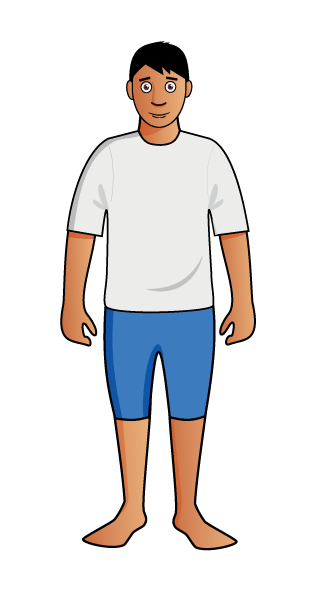
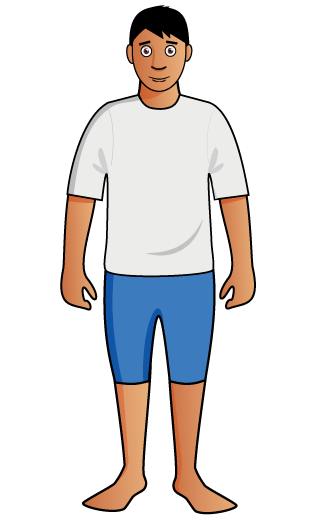
acessorios que n fazem sentido

diff --git a/index.html b/index.html
@@ -32,30 +32,160 @@
                         <div class="col-lg-8 mt-3">
                             <div class="row justify-content-center">
                                 <div class="col-lg-4">
-                                    <div class="janela-g janela-camisa"></div>
+                                    <div class="galeria-homem" style="padding-left: 15px;position: absolute;">
+                                        <img id='camisa-box' src="tela2/janela-camisa.png" alt="">
+                                        <img class="camisa" src="tela2/galerias/homem/camisa/camisa-astronauta.png" alt="">
+                                        <img class="camisa" src="tela2/galerias/homem/camisa/camisa-bombeiro.png" alt="">
+                                        <img class="camisa" src="tela2/galerias/homem/camisa/camisa-gario.png" alt="">
+                                        <img class="camisa" src="tela2/galerias/homem/camisa/camisa-mergulhador.png" alt="">
+                                        <img class="camisa" src="tela2/galerias/homem/camisa/camisa-cozinheiro.png" alt="">
+                                        <img class="camisa" src="tela2/galerias/homem/camisa/camisa-jardineiro.png" alt="">
+                                        <img class="camisa" src="tela2/galerias/homem/camisa/camisa-pescador.png" alt="">
+                                        <img class="camisa" src="tela2/galerias/homem/camisa/camisa-professor.png" alt="">
+                                        <img class="camisa" src="tela2/galerias/homem/camisa/camisa-violeiro.png" alt="">
+                                    </div>
+                                    <div class="galeria-mulher d-none" style="padding-left: 15px;">
+                                        <img id='camisa-box' src="tela2/janela-camisa.png" alt="">
+                                        <img class="camisa" src="tela2/galerias/mulher/camisas/camisa-astronauta.png" alt="">
+                                        <img class="camisa" src="tela2/galerias/mulher/camisas/camisa-bombeira.png" alt="">
+                                        <img class="camisa" src="tela2/galerias/mulher/camisas/camisa-gari.png" alt="">
+                                        <img class="camisa" src="tela2/galerias/mulher/camisas/camisa-jardineira.png" alt="">
+                                        <img class="camisa" src="tela2/galerias/mulher/camisas/camisa-medica.png" alt="">
+                                        <img class="camisa" src="tela2/galerias/mulher/camisas/camisa-mergulhadora.png" alt="">
+                                        <img class="camisa" src="tela2/galerias/mulher/camisas/camisa-musica.png" alt="">
+                                        <img class="camisa" src="tela2/galerias/mulher/camisas/camisa-pescadora.png" alt="">
+                                        <img class="camisa" src="tela2/galerias/mulher/camisas/camisa-professora.png" alt="">
+                                        <img class="camisa" src="tela2/galerias/mulher/camisas/camisa-cozinheira.png" alt="">
+                                    </div>
                                 </div>
                                 <div class="col-lg-4">
-                                    <div class="janela-g janela-calca"></div>
+                                    <!-- <img class="calca-box" src="tela2/janela-calca.png" alt=""> -->
+                                    <div class="galeria-homem" style="padding-left: 15px;position: absolute;">
+                                        <img id='calca-box' src="tela2/janela-calca.png" alt="">
+                                        <img class="calca" src="tela2/galerias/homem/calca/calca-astronauta.png" alt="">
+                                        <img class="calca" src="tela2/galerias/homem/calca/calca-bombeiro.png" alt="">
+                                        <img class="calca" src="tela2/galerias/homem/calca/calca-gario.png" alt="">
+                                        <img class="calca" src="tela2/galerias/homem/calca/calca-mergulhador.png" alt="">
+                                        <img class="calca" src="tela2/galerias/homem/calca/calca-cozinheiro.png" alt="">
+                                        <img class="calca" src="tela2/galerias/homem/calca/calca-jardineiro.png" alt="">
+                                        <img class="calca" src="tela2/galerias/homem/calca/calca-pescador.png" alt="">
+                                        <img class="calca" src="tela2/galerias/homem/calca/calca-professor.png" alt="">
+                                        <img class="calca" src="tela2/galerias/homem/calca/calca-violeiro.png" alt="">
+                                    </div>
+                                    <div class="galeria-mulher d-none" style="padding-left: 15px;">
+                                        <img id='calca-box' src="tela2/janela-calca.png" alt="">
+                                        <img class="calca" src="tela2/galerias/mulher/calcas/calca-astronauta.png" alt="">
+                                        <img class="calca" src="tela2/galerias/mulher/calcas/calca-bombeira.png" alt="">
+                                        <img class="calca" src="tela2/galerias/mulher/calcas/calca-gari.png" alt="">
+                                        <img class="calca" src="tela2/galerias/mulher/calcas/calca-jardineira.png" alt="">
+                                        <img class="calca" src="tela2/galerias/mulher/calcas/calca-medica.png" alt="">
+                                        <img class="calca" src="tela2/galerias/mulher/calcas/calca-mergulhadora.png" alt="">
+                                        <img class="calca" src="tela2/galerias/mulher/calcas/calca-musica.png" alt="">
+                                        <img class="calca" src="tela2/galerias/mulher/calcas/calca-pescadora.png" alt="">
+                                        <img class="calca" src="tela2/galerias/mulher/calcas/calca-professora.png" alt="">
+                                        <img class="calca" src="tela2/galerias/mulher/calcas/calca-cozinheira.png" alt="">
+                                    </div>
                                 </div>
                                 <div class="col-lg-4">
-                                    <div class="janela-g janela-acessorio"></div>
+                                    <div class="galeria-homem" style="padding-left: 15px;position: absolute;">
+                                        <img id='acessorios-box' src="tela2/janela-acessorios.png" alt="">
+                                        <img class="acessorio" src="tela2/galerias/homem/acessorios/acessorios-astronauta.png" alt="">
+                                        <img class="acessorio" src="tela2/galerias/homem/acessorios/acessorios-bombeiro.png" alt="">
+                                        <img class="acessorio" src="tela2/galerias/homem/acessorios/acessorios-gario.png" alt="">
+                                        <img class="acessorio" src="tela2/galerias/homem/acessorios/acessorios-mergulhador.png" alt="">
+                                        <img class="acessorio" src="tela2/galerias/homem/acessorios/acessorios-cozinheiro.png" alt="">
+                                        <img class="acessorio" src="tela2/galerias/homem/acessorios/acessorios-jardineiro.png" alt="">
+                                        <img class="acessorio" src="tela2/galerias/homem/acessorios/acessorios-pescador.png" alt="">
+                                        <img class="acessorio" src="tela2/galerias/homem/acessorios/acessorios-professor.png" alt="">
+                                        <img class="acessorio" src="tela2/galerias/homem/acessorios/acessorios-violeiro.png" alt="">
+                                    </div>
+                                    <div class="galeria-mulher d-none" style="padding-left: 15px;">
+                                        <img id='acessorios-box' src="tela2/janela-acessorios.png" alt="">
+                                        <img class="acessorio" src="tela2/galerias/mulher/acessorios/acessorios-astronauta.png" alt="">
+                                        <img class="acessorio" src="tela2/galerias/mulher/acessorios/acessorios-bombeira.png" alt="">
+                                        <img class="acessorio" src="tela2/galerias/mulher/acessorios/acessorios-gari.png" alt="">
+                                        <img class="acessorio" src="tela2/galerias/mulher/acessorios/acessorios-jardineira.png" alt="">
+                                        <img class="acessorio" src="tela2/galerias/mulher/acessorios/acessorios-medica.png" alt="">
+                                        <img class="acessorio" src="tela2/galerias/mulher/acessorios/acessorios-mergulhadora.png" alt="">
+                                        <img class="acessorio" src="tela2/galerias/mulher/acessorios/acessorios-musica.png" alt="">
+                                        <img class="acessorio" src="tela2/galerias/mulher/acessorios/acessorios-pescadora.png" alt="">
+                                        <img class="acessorio" src="tela2/galerias/mulher/acessorios/acessorios-professora.png" alt="">
+                                        <img class="acessorio" src="tela2/galerias/mulher/acessorios/acessorios-cozinheira.png" alt="">
+                                    </div>
                                 </div>
                             </div>       
                             <div class="row justify-content-center mt-4">
                                 <div class="col-lg-4">
-                                    <div class="janela-p janela-chapeu"></div>
+                                    <div class="galeria-homem" style="padding-left: 15px;bottom: 190px;">
+                                        <img id='chapeu-box' src="tela2/janela-chapeu.png" alt="">
+                                        <img class="chapeu" src="tela2/galerias/homem/chapeu/chapeu-astronauta.png" alt="">
+                                        <img class="chapeu" src="tela2/galerias/homem/chapeu/chapeu-bombeiro.png" alt="">
+                                        <img class="chapeu" src="tela2/galerias/homem/chapeu/chapeu-gario.png" alt="">
+                                        <img class="chapeu" src="tela2/galerias/homem/chapeu/chapeu-jardineiro.png" alt="">
+                                        <img class="chapeu" src="tela2/galerias/homem/chapeu/chapeu-pescador.png" alt="">
+                                        <img class="chapeu" src="tela2/galerias/homem/chapeu/chapeu-cozinheiro.png" alt="">
+                                    </div>
+                                    <div class="galeria-mulher d-none" style="padding-left: 15px;bottom: 190px;">
+                                        <img id='chapeu-box' src="tela2/janela-chapeu.png" alt="">
+                                        <img class="chapeu" src="tela2/galerias/mulher/chapeu/chapeu-astronauta.png" alt="">
+                                        <img class="chapeu" src="tela2/galerias/mulher/chapeu/chapeu-bombeira.png" alt="">
+                                        <img class="chapeu" src="tela2/galerias/mulher/chapeu/chapeu-gari.png" alt="">
+                                        <img class="chapeu" src="tela2/galerias/mulher/chapeu/chapeu-jardineira.png" alt="">
+                                        <img class="chapeu" src="tela2/galerias/mulher/chapeu/chapeu-pescadora.png" alt="">
+                                        <img class="chapeu" src="tela2/galerias/mulher/chapeu/chapeu-cozinheira.png" alt="">
+                                    </div>
                                 </div>
                                 <div class="col-lg-4">
-                                    <div class="janela-p janela-calcado"></div>
+                                    <div class="galeria-homem" style="padding-left: 15px;bottom: 190px;">
+                                        <img id='calcado-box' src="tela2/janela-calcado.png" alt="">
+                                        <img class="calcado" src="tela2/galerias/homem/sapato/sapato-astronauta.png" alt="">
+                                        <img class="calcado" src="tela2/galerias/homem/sapato/sapato-bombeiro.png" alt="">
+                                        <img class="calcado" src="tela2/galerias/homem/sapato/sapato-gario.png" alt="">
+                                        <img class="calcado" src="tela2/galerias/homem/sapato/sapato-mergulhador.png" alt="">
+                                        <img class="calcado" src="tela2/galerias/homem/sapato/sapato-cozinheiro.png" alt="">
+                                        <img class="calcado" src="tela2/galerias/homem/sapato/sapato-jardineiro.png" alt="">
+                                        <img class="calcado" src="tela2/galerias/homem/sapato/sapato-pescador.png" alt="">
+                                        <img class="calcado" src="tela2/galerias/homem/sapato/sapato-professor.png" alt="">
+                                        <img class="calcado" src="tela2/galerias/homem/sapato/sapato-violeiro.png" alt="">
+                                    </div>
+                                    <div class="galeria-mulher d-none" style="padding-left: 15px; bottom: 190px;">
+                                        <img id='calcado-box' src="tela2/janela-calcado.png" alt="">
+                                        <img class="calcado" src="tela2/galerias/mulher/sapatos/sapato-astronauta.png" alt="">
+                                        <img class="calcado" src="tela2/galerias/mulher/sapatos/sapato-bombeira.png" alt="">
+                                        <img class="calcado" src="tela2/galerias/mulher/sapatos/sapato-gari.png" alt="">
+                                        <img class="calcado" src="tela2/galerias/mulher/sapatos/sapato-jardineira.png" alt="">
+                                        <img class="calcado" src="tela2/galerias/mulher/sapatos/sapato-medica.png" alt="">
+                                        <img class="calcado" src="tela2/galerias/mulher/sapatos/sapato-mergulhadora.png" alt="">
+                                        <img class="calcado" src="tela2/galerias/mulher/sapatos/sapato-musica.png" alt="">
+                                        <img class="calcado" src="tela2/galerias/mulher/sapatos/sapato-pescadora.png" alt="">
+                                        <img class="calcado" src="tela2/galerias/mulher/sapatos/sapato-professora.png" alt="">
+                                        <img class="calcado" src="tela2/galerias/mulher/sapatos/sapato-cozinheira.png" alt="">
+                                    </div>
                                 </div>
                             </div>               
                         </div>
-                        <div class="col-lg-4 mt-3">
-                            <div class="main-character"></div>
+                        <div class="col-lg-4 mt-3 d-flex justify-content-center">
+                            <!-- <div class="main-character"></div> -->
+                            <!-- <div class="camisa"></div> -->
+                            <!-- <div class="calça"></div> -->
+
+                            
+                            <div class="main-char-area" style="position:absolute">
+                                <img id="calca-on" src="tela2/galerias/homem/calca/calca-astronauta.png" alt="">
+                                <img id="camisa-on" src="tela2/galerias/homem/camisa/camisa-astronauta.png" alt="">
+                                <img id="calcado-on" src="tela2/galerias/mulher/sapatos/sapato-astronauta.png" alt="">
+                                <img id="chapeu-on" src="tela2/galerias/mulher/chapeu/chapeu-astronauta.png" alt="">
+                                <img id="acessorio-on" src="tela2/galerias/mulher/acessorios/acessorios-astronauta.png" alt="">
+                                <img id="char" src="tela1/galeria/tela01_homem-01.png" alt="">
+                            </div>
                         </div>
-                        <div class="row justify-content-center back-save">
-                            <div class="col-lg-8 mt-4 btn-voltar"></div>
-                            <div class="col-lg-4 mt-4 btn-salvar"></div>
+                        <div class="row justify-content-center mt-3 back-save">
+                            <div class="col-lg-8">
+                                <img class='btn-voltar' src="tela2/voltar.png" alt="">
+                            </div>
+                            <div class="col-lg-4 text-center">
+                                <img class='btn-salvar' src="tela2/salvar.png" alt="">
+                            </div>
                         </div>
                     </div>
                 </div>
@@ -81,7 +211,11 @@
         });
 
         $('#escolhe-char').click(function() {
-            char_escolhido = images[i];
+            let img_tela2 = ['tela02_homem-01.png', 'tela02_homem-02.png',
+                        'tela02_mulher-01.png', 'tela02_mulher-02.png']
+
+            char_escolhido = img_tela2[i];
+            $("#char").attr("src", "tela2/principal/"+ char_escolhido);
             $('#tela01').hide();
             $('#tela02').show();
         });
@@ -89,9 +223,10 @@
         $(document).ready(function(){
             $('#exampleModal').modal('show')
             $('#tela02').hide();
+
+
         });
-
-
+        
     </script>
 </body>
 </html>

diff --git a/index.css b/index.css
@@ -47,7 +47,7 @@
 .main-character, .btn-escolhe, .title-image, 
 .arrow-left, .arrow-right, .janela-calca, 
 .janela-camisa, .janela-acessorio, .janela-chapeu,
-.janela-calcado, .btn-voltar, .btn-salvar {
+.janela-calcado {
     
     background-position: center center;
     background-repeat: no-repeat;
@@ -125,21 +125,69 @@
 }
 
 .btn-voltar {
-    background-image:url(tela2/voltar.png);
+    /* background-image:url(tela2/voltar.png);
     height: 30px;
-    background-position: center left;
+    background-position: center left; */
     cursor: pointer;
+    width: 100px;
 } 
 
 .btn-salvar {
-    background-image:url(tela2/salvar.png);
-    height: 50px;
-    cursor: pointer;
+    /* background-image:url(tela2/salvar.png);
+    height: 50px;*/
+    cursor: pointer; 
+    width: 175px;
 }
 
 .back-save {
     padding-left: 50px !important;
 }
+
+
+
+
+#camisa-on, #calca-on, #chapeu-on, #calcado-on,
+#acessorio-on, .calca, .camisa, .galeria-homem,
+.galeria-mulher, .acessorio, .chapeu, .calcado {
+    position: absolute;
+}
+
+#calca-on {
+    bottom: -22px;
+    left: 26px;
+}
+
+#camisa-on {
+    top: 10px;
+    left: 24px;
+}
+
+#calcado-on {
+    bottom: -58px;
+    left: 25px;
+}
+
+#chapeu-on {
+    top: -29px;
+    left: 24px;
+}
+
+#calca-box, #camisa-box, #acessorios-box,
+#chapeu-box, #calcado-box {
+    width: 190px;
+}
+
+#char {
+    width: 240px;
+}
+
+.calca, .camisa, .acessorio, .chapeu, 
+.calcado {
+    right: 0;
+    top: 0;
+}
+
+
 /* // X-Small devices (portrait phones, less than 576px) */
 @media (max-width: 575.98px) { 
 
